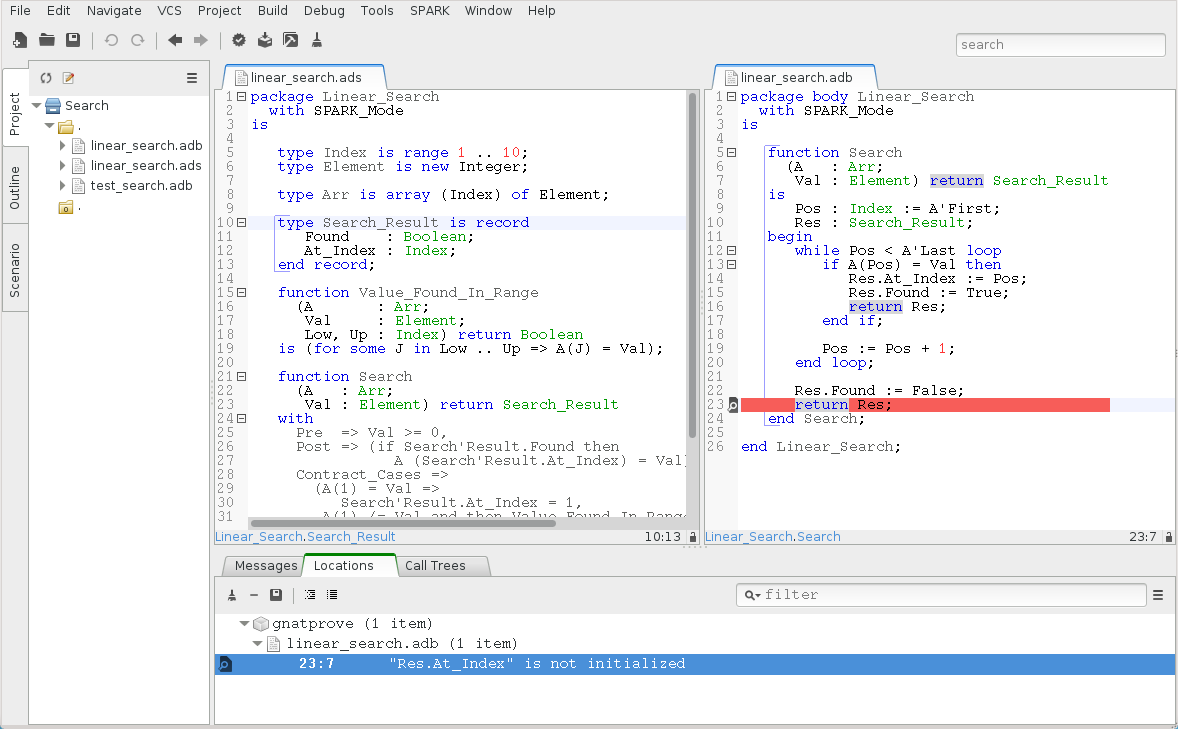
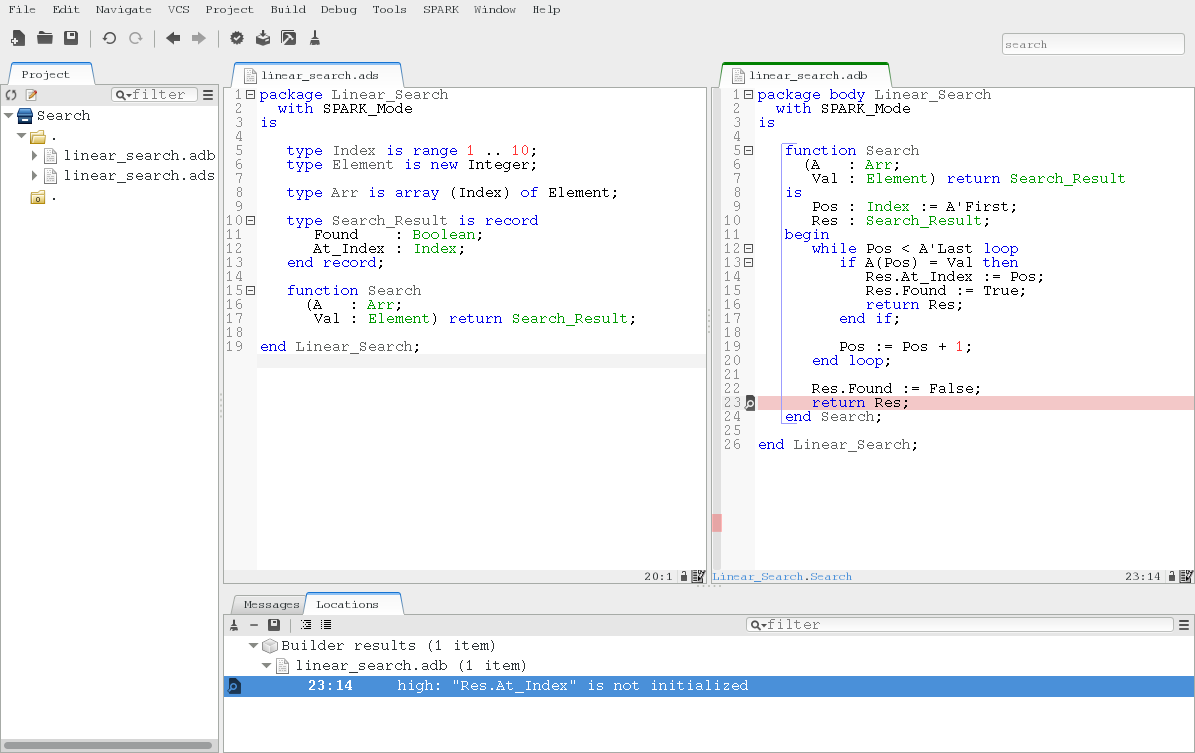
NA21-051 moved up introduction of flow analysis in tutorial
Solves inconsistency issue reported by Laura Dillon during teaching
SPARK 2014.

diff --git a/docs/ug/tutorial.rst b/docs/ug/tutorial.rst
@@ -55,7 +55,10 @@ Semantic`` menu, which completes without any errors or warnings:
 
 .. image:: static/search_check_semantic.png
 
-Then, we run |GNATprove| on this unit, using the :menuselection:`SPARK -->
+Static Analysis of SPARK Programs
+---------------------------------
+
+Now, let us run |GNATprove| on this unit, using the :menuselection:`SPARK -->
 Examine File` menu, so that it issues errors on |SPARK| code that violates
 |SPARK| rules:
 
@@ -87,18 +90,58 @@ The implementation of ``Search`` is modified to use this type:
    :linenos:
 
 Re-running |GNATprove| on this unit, using the :menuselection:`SPARK -->
-Examine File` menu, reports a different kind of error that we describe in
-:ref:`proving spark programs`.
+Examine File` menu, now reports a different kind of error. This time it is
+the static analysis pass of |GNATprove| called *flow analysis* that
+detects a not fully initialized variable: ``Res``.
 
-It is not yet very interesting |SPARK| code though, as it does not contain any
-contracts, which are necessary to be able to apply formal verification
-modularly on each subprogram, independently of the implementation of other
-subprograms. The precondition constrains the value of input parameters, while
-the postcondition states desired properties of the result of the function. See
-:ref:`Preconditions and Postconditions` for more details. Here, we can require
-in the precondition that callers of ``Search`` always pass a
-non-negative value for parameter ``Val``, and we can state that, when the
-search succeeds, the index returned points to the desired value in the array:
+.. image:: static/search_flow_error.png
+
+Inside the GPS editor, we can click on the path icon, either on the left of the
+message, or on line 23 in file ``linear_search.adb``, to show the path on which
+``Res.At_Index`` is not initialized:
+
+.. image:: static/search_flow_error_path.png
+
+Another click on the icon makes the path disappear.
+
+This shows that, when the value is not found, the component ``At_Index`` of
+the value returned is indeed not initialized. Although that is allowed in
+Ada, |SPARK| requires that all inputs and outputs of subprograms are
+completely initialized (and the value returned by a function is such an
+output). Although we could give a dummy value to component ``At_Index``
+when the search fails, we choose to turn the type ``Search_Result`` into a
+discriminant record, so that the component ``At_Index`` is only usable when
+the search succeeds:
+
+.. literalinclude:: examples/linear_search_prove/linear_search.ads
+   :language: ada
+   :linenos:
+   :lines: 10-17
+
+Then, in the implementation of ``Search``, we change the value of the
+discriminant depending on the success of the search:
+
+.. literalinclude:: examples/linear_search_prove/linear_search.adb
+   :language: ada
+   :linenos:
+   :lines: 5-24
+
+Now re-running |GNATprove| on this unit, using the :menuselection:`SPARK -->
+Examine File` menu, shows that there are no reads of uninitialized data.
+
+Writing Contracts in SPARK
+--------------------------
+
+We now have a valid SPARK program. It is not yet very interesting |SPARK|
+code though, as it does not contain any contracts, which are necessary to
+be able to apply formal verification modularly on each subprogram,
+independently of the implementation of other subprograms. The precondition
+constrains the value of input parameters, while the postcondition states
+desired properties of the result of the function. See :ref:`Preconditions
+and Postconditions` for more details. Here, we can require in the
+precondition that callers of ``Search`` always pass a non-negative value
+for parameter ``Val``, and we can state that, when the search succeeds, the
+index returned points to the desired value in the array:
 
 .. literalinclude:: examples/linear_search_contract/linear_search.ads
    :language: ada
@@ -207,8 +250,8 @@ compiler with the switch ``-gnateE``:
    $ gnatmake -gnata -gnateE -f test_search.adb
    $ test_search
    > raised SYSTEM.ASSERTIONS.ASSERT_FAILURE : contract cases overlap for subprogram search
-   >   case guard at linear_search.ads:29 evaluates to True
-   >   case guard at linear_search.ads:31 evaluates to True
+   >   case guard at linear_search.ads:33 evaluates to True
+   >   case guard at linear_search.ads:35 evaluates to True
 
 It shows here that the guards of the first and second contract cases hold at
 the same time. This failure in annotations can be debugged with ``gdb`` like a
@@ -257,8 +300,10 @@ Formal verification of |SPARK| programs is a two-step process:
    contracts (if any), and that no run-time error can be raised.
 
 Step 1 is implemented as a static analysis pass in the tool |GNATprove|, in
-``flow`` mode. Step 2 is implemented as a deductive verification pass
-in the tool |GNATprove|, in the default ``all`` mode.
+``flow`` mode. We have seen this flow analysis at work earlier during basic
+static analysis of our running example. Step 2 is implemented as a
+deductive verification pass in the tool |GNATprove|, in the default ``all``
+mode.
 
 The difference between these two steps should be emphasized. Static analysis in
 step 1 is a terminating algorithm, which typically takes 2 to 10 times as long
@@ -281,50 +326,10 @@ independently, so the more cores are available the faster it completes.
    more or less time to complete a proof depending on the platform and machine
    used.
 
-We start with the flow analysis of ``Linear_Search``, using mode ``flow`` of
-|GNATprove| reached through the :menuselection:`SPARK --> Examine File` menu:
-
-.. image:: static/search_flow.png
-
-Here, it issues an error message:
-
-.. image:: static/search_flow_error.png
-
-Inside the GPS editor, we can click on the path icon, either on the left of the
-message, or on line 23 in file ``linear_search.adb``, to show the path on which
-``Res.At_Index`` is not initialized:
-
-.. image:: static/search_flow_error_path.png
-
-Another click on the icon makes the path disappear.
-
-This shows that, when the value is not found, the component ``At_Index``
-of the value returned is indeed not initialized. Although that is allowed in Ada,
-|SPARK| requires that all inputs and outputs of subprograms are completely
-initialized (and the value returned by a function is such an output). Although
-we could give a dummy value to component ``At_Index`` when the search fails, we
-choose to turn the type ``Search_Result`` into a discriminant record, so that
-the component ``At_Index`` is only usable when the search succeeds:
-
-.. literalinclude:: examples/linear_search_prove/linear_search.ads
-   :language: ada
-   :linenos:
-   :lines: 10-17
-
-Then, in the implementation of ``Search``, we change the value of the
-discriminant depending on the success of the search:
-
-.. literalinclude:: examples/linear_search_prove/linear_search.adb
-   :language: ada
-   :linenos:
-   :lines: 5-24
-
-|GNATprove| runs without errors in mode ``flow`` on this program, which shows
-there are no reads of uninitialized data.
-
-We continue with the proof of contracts and absence of run-time errors, using
-the main mode ``all`` of |GNATprove| reached through the
-:menuselection:`SPARK --> Prove File` menu.
+Let us continue with our running example. This time we will see how step 2
+works to prove contracts and absence of run-time errors, using the main
+mode ``all`` of |GNATprove| reached through the :menuselection:`SPARK -->
+Prove File` menu.
 
 .. image:: static/search_prove_file.png
 
@@ -374,12 +379,12 @@ iterations around the (virtual) loop formed by the following steps:
 #. Execute the start of a source loop iteration (just the if-statement here).
 #. Check that the loop invariant still holds.
 
-Around this virtual loop, nothing guarantees that the index ``Pos`` is not the
-maximal index at step 2 (the increment), so the range check cannot be
-proved. It was previously proved because, in the absence of a loop invariant,
-|GNATprove| proves iterations around the source loop, and then we get the
-information that, since the loop did not exit, its test ``Pos < A'Last`` is
-false, so the range check can be proved.
+Around this virtual loop, nothing guarantees that the index ``Pos`` is
+below the maximal index at step 2 (the increment), so the range check
+cannot be proved. It was previously proved because, in the absence of a
+loop invariant, |GNATprove| proves iterations around the source loop, and
+then we get the information that, since the loop did not exit, its test
+``Pos < A'Last`` is false, so the range check can be proved.
 
 We solve this issue by setting the type of ``Pos`` to the base type of
 ``Index``, which ranges past the last value of ``Index``. (This may not be the
